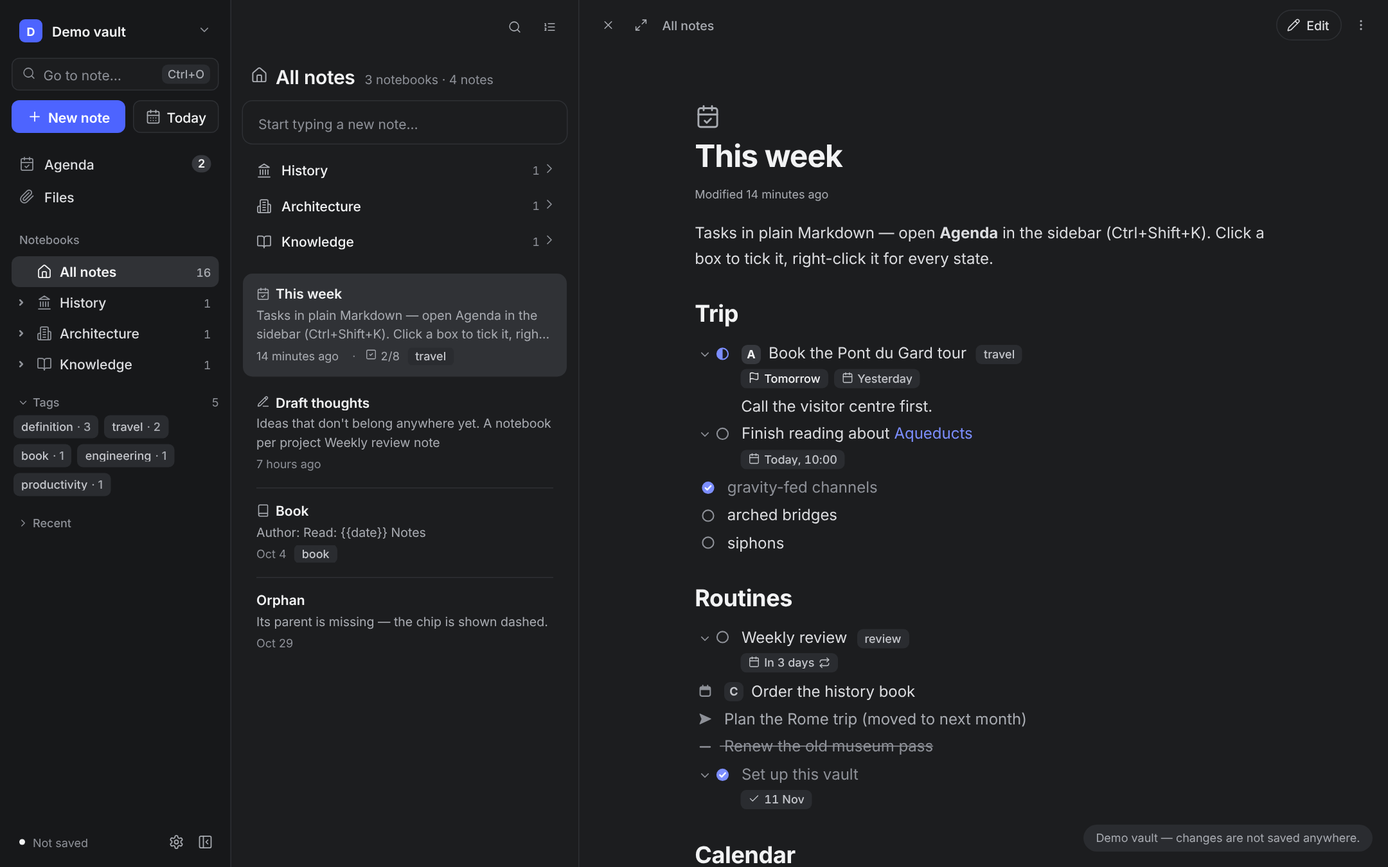
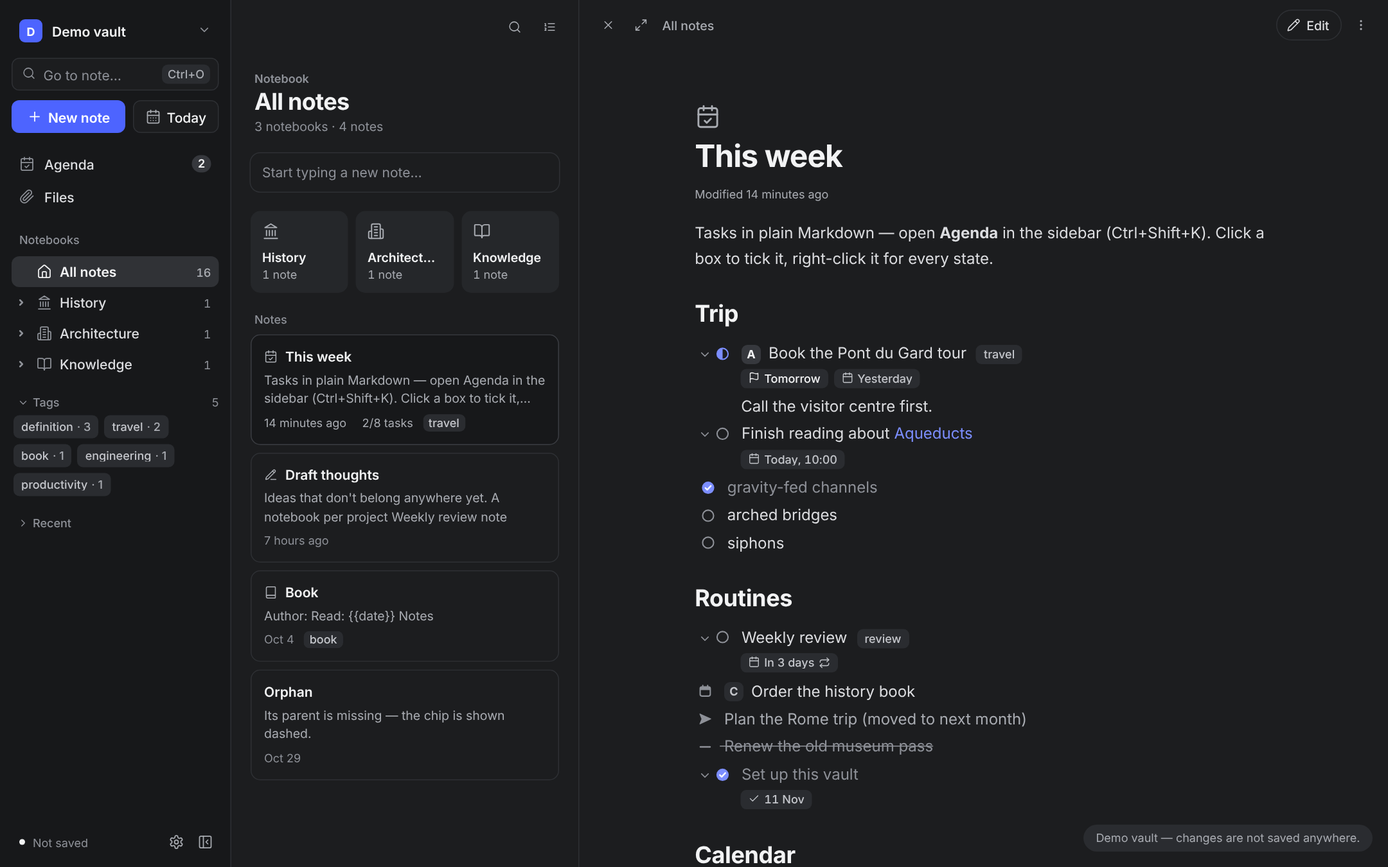
Restyle stage 5: the list
The list's head says what kind of list it is over a 24px bold title,
with the count under it. Notebooks are tiles, three to a row, with their
icon, name and how many notes they hold; a long name is cut with an
ellipsis and shown in full as its tooltip. A faint "Notes" label heads
the notes, which are white cards with a hairline; the open one sits on
the grey with a stronger line. The row's line reads "2/8 tasks" with no
dots. Up and down walk the list in order; right and left still go into
a notebook and back out. The tile test follows.

Claude-Session: https://claude.ai/code/session_01FMk1W3xjGAnUwDM3D7HQLZ

diff --git a/web/src/css/app.css b/web/src/css/app.css
@@ -209,16 +209,17 @@ button.sn-mode-btn.is-editing:hover { background: var(--cta-hover); }
   #app.is-stacked a.sn-editor-back { display: inline-flex; }
   #app.is-stacked .sn-editor-head :is(.sn-editor-path, .sn-editor-places, .sn-editor-close) { display: none; }
 }
-.sn-board.is-notes .sn-page { max-width: 760px; margin: 0 auto; padding: var(--sp-14) var(--sp-12) var(--sp-48); }
+.sn-board.is-notes .sn-page { max-width: 760px; margin: 0 auto; padding: var(--sp-24) var(--sp-20) var(--sp-48); }
 #app.notes-layout.editor-open .sn-board.is-notes .sn-page { max-width: none; }
-.sn-list-head { display: flex; align-items: baseline; gap: var(--sp-10); padding: var(--sp-4) var(--sp-8) var(--sp-12); min-width: 0; }
-/* The screen title: icon, name at 20px, a faint count. The list of notes, Files and the agenda share it (agenda.css) */
-.sn-list-head .sn-list-title { display: flex; align-items: center; gap: var(--sp-8); min-width: 0; margin: 0; font-size: var(--fs-lg); font-weight: var(--fw-semibold); line-height: var(--lh-tight); letter-spacing: -.01em; color: var(--ink); }
+/* The list's head: what kind of list, its name at 24px, how much it holds under it (restyle RS-20 to RS-22) */
+.sn-list-head { display: flex; flex-direction: column; gap: var(--sp-2); padding: 0 var(--sp-4) var(--sp-20); min-width: 0; }
+.sn-list-kind { color: var(--faint); font-size: var(--fs-sm); font-weight: var(--fw-semibold); }
+.sn-list-head .sn-list-title { display: flex; align-items: center; gap: var(--sp-8); min-width: 0; margin: 0; font-size: var(--fs-xl); font-weight: var(--fw-bold); line-height: var(--lh-tight); letter-spacing: var(--ls-head); color: var(--ink); }
 /* a long notebook name gets two lines rather than an ellipsis: with no breadcrumbs, the title is where the list says what it is */
 .sn-list-title > span { overflow: hidden; overflow-wrap: anywhere; display: -webkit-box; -webkit-line-clamp: 2; -webkit-box-orient: vertical; }
 .sn-list-badge { display: inline-flex; color: var(--muted); }
 .sn-list-badge svg { width: var(--icon-l); height: var(--icon-l); }
-.sn-list-count { flex: none; color: var(--faint); }
+.sn-list-count { flex: none; color: var(--faint); font-size: var(--fs-ui); }
 /* the notebook's own text, under its title: three lines that open it beside the list (board.js renderListDesc) */
 .sn-list-desc { margin: calc(var(--sp-6) * -1) 0 var(--sp-12); padding: var(--sp-6) var(--sp-8); border-radius: var(--r-s); color: var(--muted); line-height: var(--lh-ui); cursor: pointer; }
 .sn-list-desc-text { overflow: hidden; overflow-wrap: anywhere; display: -webkit-box; -webkit-line-clamp: 3; -webkit-box-orient: vertical; }
@@ -226,28 +227,27 @@ button.sn-mode-btn.is-editing:hover { background: var(--cta-hover); }
 .sn-list-desc.is-editing { background: var(--sel); color: var(--fg); }
 .sn-list-desc:focus { outline: none; }
 .sn-list-desc:focus-visible { box-shadow: var(--ring); }
-.sn-board.is-notes .sn-composer { margin: 0 0 var(--sp-10); }
-.sn-rows { display: flex; flex-direction: column; gap: var(--sp-6); }
+.sn-board.is-notes .sn-composer { margin: 0 0 var(--sp-20); }
+.sn-board.is-notes .sn-composer textarea { height: 40px; min-height: 40px; padding: var(--sp-10) var(--sp-12); line-height: 20px; }
+/* the notebooks' tiles in a grid, three to a row in a list of 360px; each note and the "Notes" label take a whole row (RS-25, RS-28) */
+.sn-rows { display: grid; grid-template-columns: repeat(auto-fill, minmax(96px, 1fr)); gap: var(--sp-8); }
+.sn-rows > :not(.is-folder) { grid-column: 1 / -1; }
+.sn-list-label { margin: var(--sp-12) 0 0; padding: 0 var(--sp-4); color: var(--faint); font-size: var(--fs-sm); font-weight: var(--fw-medium); }
+/* a note: a white card with a hairline (RS-29) */
 .sn-board .sn-card.sn-row {
-  flex-direction: row; align-items: flex-start; gap: var(--sp-12); padding: var(--sp-12) var(--sp-14);
-  background: transparent; box-shadow: none; cursor: default;
+  flex-direction: row; align-items: flex-start; gap: var(--sp-12); padding: var(--sp-14);
+  background: var(--win); box-shadow: inset 0 0 0 1px var(--line); cursor: default;
 }
-.sn-board .sn-card.sn-row:hover { background: var(--hover-bg); box-shadow: none; }
-.sn-board .sn-card.sn-row:focus { box-shadow: none; }
+.sn-board .sn-card.sn-row:hover { background: var(--hover-bg); box-shadow: inset 0 0 0 1px var(--line); }
+.sn-board .sn-card.sn-row:focus { box-shadow: inset 0 0 0 1px var(--line); }
 .sn-board .sn-card.sn-row:focus-visible:not(.is-editing) { box-shadow: var(--ring); }
-/* the open note: the same grey as the current row in the sidebar, not a white card that competes with the note's own sheet */
-.sn-board .sn-card.sn-row.is-editing { background: var(--sel); box-shadow: none; }
+/* the open note: the sidebar's grey and a stronger hairline (RS-33) */
+.sn-board .sn-card.sn-row.is-editing { background: var(--bg); box-shadow: inset 0 0 0 1px var(--line-strong); }
 /* --faint is for --bg and --win only: on a row's grey the date, the dots and the counts step up to --muted, as in the sidebar */
 .sn-row:is(:hover, .is-editing) :is(.sn-row-meta, .sn-row-meta > *::before, .sn-row-count) { color: var(--muted); }
 .sn-board .sn-card.sn-row.is-picked { background: color-mix(in srgb, var(--accent-soft) 70%, var(--win)); box-shadow: 0 0 0 1px var(--accent); }
-/* rules between notes; none above a notebook row, so the notebooks at the top of the list read as one block */
-.sn-rows > .sn-row:not(.is-editing):not(:hover) + .sn-row:not(.is-editing):not(:hover):not(.is-folder)::before {
-  content: ""; position: absolute; top: -3.5px; left: 14px; right: 14px; border-top: 1px solid var(--line);
-}
-.sn-row-text { flex: 1 1 auto; min-width: 0; display: flex; flex-direction: column; gap: var(--sp-4); }
-.sn-row-meta { display: flex; align-items: center; gap: var(--sp-6); min-width: 0; font-size: var(--fs-sm); line-height: 16px; color: var(--faint); white-space: nowrap; }
-.sn-row-meta > * + *::before { content: "·"; margin-right: var(--sp-6); color: var(--faint); }
-.sn-row-meta > .sn-row-meta-icon + *::before { content: none; }
+.sn-row-text { flex: 1 1 auto; min-width: 0; display: flex; flex-direction: column; gap: var(--sp-6); }
+.sn-row-meta { display: flex; align-items: center; gap: var(--sp-8); min-width: 0; font-size: var(--fs-sm); line-height: 16px; color: var(--faint); white-space: nowrap; }
 .sn-row-meta-icon { display: inline-flex; color: var(--muted); }
 .sn-row-meta-icon svg { width: var(--icon-xs); height: var(--icon-xs); }
 a.sn-row-parent { min-width: 0; overflow: hidden; text-overflow: ellipsis; color: var(--muted); font-weight: var(--fw-medium); text-decoration: none; }
@@ -255,34 +255,35 @@ a.sn-row-parent:hover { color: var(--ink); text-decoration: underline; }
 .sn-row-date { flex: none; }
 .sn-row-meta .sn-task-prog { display: inline-flex; align-items: center; gap: var(--sp-4); }
 .sn-row-meta .sn-task-prog svg { width: var(--icon-xs); height: var(--icon-xs); }
-.sn-row-head { display: flex; align-items: center; gap: var(--sp-6); min-width: 0; }
+.sn-row-head { display: flex; align-items: center; gap: var(--sp-8); min-width: 0; }
+.sn-row-head .sn-card-icon { color: var(--muted); }
 .sn-row-title {
   min-width: 0; font-size: var(--fs-md); font-weight: var(--fw-semibold); line-height: var(--lh-tight); color: var(--ink);
   overflow: hidden; overflow-wrap: anywhere; display: -webkit-box; -webkit-line-clamp: 2; -webkit-box-orient: vertical;
 }
-.sn-row-snippet { line-height: var(--lh-ui); color: var(--muted); overflow-wrap: anywhere;
+.sn-row-snippet { font-size: var(--fs-ui); line-height: var(--lh-ui); color: var(--muted); overflow-wrap: anywhere;
   overflow: hidden; display: -webkit-box; -webkit-line-clamp: 2; -webkit-box-orient: vertical;
 }
 /* the tags end the row's last line, after the date: one line, cut at the row's edge */
 .sn-row-meta { overflow: hidden; height: 18px; } /* as high with tags as without: rows of the same text are the same height */
 .sn-row-meta .sn-tags.sn-row-tags { display: inline-flex; flex-wrap: nowrap; gap: var(--sp-4); min-width: 0; margin: 0 0 0 var(--sp-2); overflow: hidden; }
-.sn-row-meta > .sn-row-tags::before { content: none; }
+.sn-row-meta .sn-row-tags .sn-chip { height: 18px; padding: 0 var(--sp-6); } /* as high as the line it ends (RS-32) */
 button.sn-row-enter {
   flex: none; align-self: center; gap: var(--sp-2); height: var(--ctl-l); padding: 0 var(--sp-6) 0 var(--sp-12);
   border: 0; border-radius: var(--r-pill); background: var(--panel); color: var(--muted); font-size: var(--fs-sm); font-variant-numeric: tabular-nums; cursor: pointer;
 }
 button.sn-row-enter svg { width: var(--icon-m); height: var(--icon-m); }
 button.sn-row-enter:hover, .sn-row:focus-visible button.sn-row-enter { background: var(--accent-soft); color: var(--accent); }
-/* a notebook: one compact line at the top of the list (cards.js renderFolderRow) */
-.sn-board .sn-card.sn-row.is-folder { align-items: center; gap: var(--sp-10); padding: var(--sp-8) var(--sp-10) var(--sp-8) var(--sp-14); cursor: pointer; }
-.sn-row.is-folder .sn-row-title { flex: 1 1 auto; font-size: var(--fs-md); font-weight: var(--fw-medium); -webkit-line-clamp: 1; }
+/* a notebook: a tile at the top of the list, its icon over its name and how much it holds (cards.js renderFolderRow, RS-26) */
+.sn-board .sn-card.sn-row.is-folder { flex-direction: column; align-items: flex-start; gap: var(--sp-10); padding: var(--sp-12); background: var(--hover-bg); box-shadow: none; cursor: pointer; }
+/* under the pointer a step darker; pressed (the --sel rule at the end of the styles) and open, one more (DS-8) */
+:where(.sn-board) .sn-card.sn-row.is-folder:hover { background: var(--panel); box-shadow: none; } /* :where: no heavier than the pressed rule */
+.sn-board .sn-card.sn-row.is-folder.is-editing { background: var(--sel); box-shadow: none; }
+/* a tile's name on one line, cut with an ellipsis rather than broken inside a word; the whole name is its tooltip */
+.sn-row.is-folder .sn-row-title { display: block; max-width: 100%; overflow: hidden; text-overflow: ellipsis; white-space: nowrap; font-size: var(--fs-ui); font-weight: var(--fw-semibold); }
 .sn-row-folder-icon { flex: none; display: inline-flex; color: var(--muted); }
-.sn-row-folder-icon svg { width: var(--icon-m); height: var(--icon-m); }
-.sn-row-count { flex: none; display: inline-flex; align-items: center; gap: var(--sp-2); color: var(--faint); font-size: var(--fs-sm); font-variant-numeric: tabular-nums; }
-.sn-row-count svg { width: var(--icon-m); height: var(--icon-m); }
-.sn-row.is-folder:hover .sn-row-count, .sn-row.is-folder:focus-visible .sn-row-count { color: var(--accent); }
-.sn-rows > .sn-row.is-folder + .sn-row:not(.is-folder) { margin-top: var(--sp-10); }
-.sn-rows > .sn-row.is-folder + .sn-row.is-folder { margin-top: calc(var(--sp-4) * -1); }
+.sn-row-folder-icon svg { width: var(--icon-l); height: var(--icon-l); }
+.sn-row-count { margin-top: calc(var(--sp-8) * -1); color: var(--muted); font-size: var(--fs-sm); font-variant-numeric: tabular-nums; }
 .sn-row-thumb { flex: none; width: 60px; height: 60px; margin-top: 19px; object-fit: cover; border-radius: var(--r-s); background: var(--panel); box-shadow: 0 0 0 1px var(--line); }
 @media (max-width: 820px) {
   .sn-board.is-notes .sn-page { padding: var(--sp-10) var(--sp-6) var(--sp-48); }

diff --git a/web/src/js/core/strings.js b/web/src/js/core/strings.js
@@ -12,7 +12,8 @@ export const STR = {
     sortManual: "Manually (order field)", sortName: "By name", sortModified: "Recently modified first", sortCreated: "Newest first",
     icon: "Icon",
     composerPlaceholder: "Start typing a new note…", composerHint: "Enter — create · Shift+Enter — new line · the first line becomes the title",
-    cardsCount: ["{n} note", "{n} notes"], cardsOf: "{shown} of {n}", filteredSuffix: "{count} · filtered",
+    cardsCount: ["{n} note", "{n} notes"], listKindNotebook: "Notebook", listKindTag: "Tag", listKindSearch: "Search", listNotes: "Notes",
+    rowTasks: ["{done}/{n} task", "{done}/{n} tasks"], cardsOf: "{shown} of {n}", filteredSuffix: "{count} · filtered",
     parentMissing: "Parent note not found",
     noCards: "No notes here yet — start typing to create one.", noMatches: "No notes match the filter.",
     repeatsSkipped: ["{n} repeated note is hidden (several parents or a cycle)", "{n} repeated notes are hidden (several parents or a cycle)"],
@@ -94,7 +95,8 @@ export const STR = {
     sortManual: "Вручную (поле order)", sortName: "По имени", sortModified: "Недавно изменённые", sortCreated: "Сначала новые",
     icon: "Иконка",
     composerPlaceholder: "Начните печатать новую заметку…", composerHint: "Enter — создать · Shift+Enter — новая строка · первая строка станет заголовком",
-    cardsCount: ["{n} заметка", "{n} заметки", "{n} заметок"], cardsOf: "{shown} из {n}", filteredSuffix: "{count} · фильтр",
+    cardsCount: ["{n} заметка", "{n} заметки", "{n} заметок"], listKindNotebook: "Блокнот", listKindTag: "Тег", listKindSearch: "Поиск", listNotes: "Заметки",
+    rowTasks: ["{done}/{n} задача", "{done}/{n} задачи", "{done}/{n} задач"], cardsOf: "{shown} из {n}", filteredSuffix: "{count} · фильтр",
     parentMissing: "Родительская заметка не найдена",
     noCards: "Здесь пока нет заметок — начните печатать, чтобы создать.", noMatches: "Нет заметок под фильтр.",
     repeatsSkipped: ["{n} повтор скрыт (несколько родителей или цикл)", "{n} повтора скрыто (несколько родителей или цикл)", "{n} повторов скрыто (несколько родителей или цикл)"],

diff --git a/web/src/js/ui/board.js b/web/src/js/ui/board.js
@@ -195,16 +195,27 @@ function renderRows(page, scroll, model, composer) {
   const listName = board.tagView ? "#" + board.tagView : board.target ? baseName(board.target) : t("allCards");
   const box = h("div", { cls: "sn-rows", role: "listbox", "aria-label": listName, "aria-multiselectable": String(!!board.selectMode) });
   page.append(box);
-  const addRows = (list) => { for (const c of list) { const el = renderRow(c.path, c.via, !!c.folder); box.append(el); rows.push(el); } };
+  // notebooks are tiles at the top; "Notes" heads the notes under them (restyle RS-25, RS-28), seen but not read out:
+  // the list box holds options only
+  let prevFolder = false;
+  const addRows = (list) => {
+    for (const c of list) {
+      if (prevFolder && !c.folder) box.append(h("div", { cls: "sn-list-label", "aria-hidden": "true", text: t("listNotes") }));
+      prevFolder = !!c.folder;
+      const el = renderRow(c.path, c.via, !!c.folder); box.append(el); rows.push(el);
+    }
+  };
   lazyAdd(page, scroll, model.shown, addRows);
   return rows;
 }
 /** The top of the list of notes: the card (or tag) it lists and how many notebooks and notes it shows. */
 function renderListHead(model) {
   const target = board.target, tv = board.tagView;
+  // what kind of list it is, its name, then how much it holds (restyle RS-20 to RS-22)
+  const kind = tv ? t("listKindTag") : model.active ? t("listKindSearch") : t("listKindNotebook");
   const head = h("div", { cls: "sn-list-head" });
-  head.append(h("h1", { cls: "sn-list-title" }, ic("sn-list-badge", tv ? "hash" : target ? cardIcon(target) || "layers" : "home", "layers"),
-    h("span", { text: tv ? "#" + tv : target ? baseName(target) : t("allCards") })));
+  head.append(h("div", { cls: "sn-list-kind", text: kind }));
+  head.append(h("h1", { cls: "sn-list-title" }, h("span", { text: tv ? "#" + tv : target ? baseName(target) : t("allCards") })));
   head.append(h("span", { cls: "sn-list-count", text: countText(model) }));
   return head;
 }

diff --git a/web/src/css/base.css b/web/src/css/base.css
@@ -9,7 +9,7 @@ body.theme-dark {
   --accent:#7c8eff; --accent-soft:#1f2547; --sel:#303236; --flash:#4a3f12; --code-bg:#25272a;
   --ink:#f2f3f4; --cta:#4d64ff; --cta-hover:#7c8eff; --hover-bg:#25272a;
   --tag:#c4c6cb; --tbl-head:#25272a; --tbl-head-line:#2e3034;
-  --panel-strong:#36383d;
+  --panel-strong:#36383d; --line-strong:#3b3d42;
   --l2:#e3a46f; --l3:#c39cf0; --l7:#e2c162; --l8:#78c6d4;
   --todo:#ff7c70;
   color-scheme: dark;
@@ -22,7 +22,7 @@ body {
      detail, 4.5:1 on --bg and --win only — never on --panel, --sel or --hover-bg). */
   --bg:#f8f8f7; --win:#ffffff; --panel:#f1f1ef; --fg:#2a2c30; --muted:#55585e; --faint:#686b72; --line:#e9e9e7;
   --accent:#4d64ff; --accent-soft:#ebeeff; --sel:#ececea; --flash:#fff1a8; --code-bg:#f4f4f2; --ink:#17181a; --cta:#4d64ff;
-  --cta-hover:#3245bb; --hover-bg:#f4f4f2; --tag:#45484e; --tbl-head:#f4f4f2; --tbl-head-line:#e9e9e7; --panel-strong:#e4e4e1;
+  --cta-hover:#3245bb; --hover-bg:#f4f4f2; --tag:#45484e; --tbl-head:#f4f4f2; --tbl-head-line:#e9e9e7; --panel-strong:#e4e4e1; --line-strong:#d9d9d6;
   --l2:#9a5524; --l3:#7a3fb0; --l7:#946500; --l8:#1d7385; --todo:#c42f27;
   /* text and marks on --accent, --cta and --todo fills; --paper is the white of a page (a PDF, the switch knob), the same in both themes */
   --on-accent: #fff; --paper: #fff;
@@ -36,6 +36,8 @@ body {
   --fw-regular: 400; --fw-medium: 500; --fw-semibold: 600; --fw-bold: 700;
   /* line heights: headings and titles, the interface, a note's text */
   --lh-tight: 1.25; --lh-ui: 1.5; --lh-text: 1.7;
+  /* tracking: headings at 24px and the list's title */
+  --ls-head: -0.02em;
   /* the spacing scale, named by its size in pixels: every padding, margin and gap uses it (besides 0, 1px hairlines
      and the few measured offsets listed in tests/architecture.test.mjs) */
   --sp-2: 2px; --sp-4: 4px; --sp-6: 6px; --sp-8: 8px; --sp-10: 10px; --sp-12: 12px; --sp-14: 14px; --sp-16: 16px;

diff --git a/web/src/js/ui/cards.js b/web/src/js/ui/cards.js
@@ -84,9 +84,10 @@ function renderFolderRow(path, via) {
   if (board.selection.has(path)) row.classList.add("is-picked");
   asOption(row, path);
   if (editor.path === path) row.classList.add("is-editing");
+  // a tile: its icon, its name, how many notes and notebooks are right inside it (restyle RS-26)
   const kids = graph.childrenOf(path).length;
-  row.append(ic("sn-row-folder-icon", cardIcon(path) || "folder", "folder"), h("span", { cls: "sn-row-title", text: baseName(path) }),
-    h("span", { cls: "sn-row-count", title: t("rowEnter", { n: kids }) }, h("span", { text: String(kids) }), ic("", "chevron-right")));
+  row.append(ic("sn-row-folder-icon", cardIcon(path) || "folder", "folder"), h("span", { cls: "sn-row-title", text: baseName(path), title: baseName(path) }),
+    h("span", { cls: "sn-row-count", title: t("rowEnter", { n: kids }), text: t("cardsCount", { n: kids }) }));
   row.addEventListener("click", (e) => {
     if (e.shiftKey || board.selectMode) { e.preventDefault(); toggleSelect(path); return; }
     enterRow(path);
@@ -130,7 +131,7 @@ export function renderRow(path, via, folder = false) {
   const mtime = n?.mtime || 0;
   meta.append(h("span", { cls: "sn-row-date", text: formatDate(mtime), title: t("modifiedAt", { date: new Date(mtime).toLocaleString(LANG) }) }));
   const prog = cardTaskProgress(path);
-  if (prog) meta.append(h("span", { cls: "sn-task-prog" + (prog.done === prog.n ? " is-complete" : ""), title: tt("progress", prog) }, ic("", "square-check"), h("span", { text: `${prog.done}/${prog.n}` })));
+  if (prog) meta.append(h("span", { cls: "sn-task-prog" + (prog.done === prog.n ? " is-complete" : ""), title: tt("progress", prog), text: t("rowTasks", prog) }));
 
   const head = h("div", { cls: "sn-row-head" });
   const iconName = cardIcon(path);

diff --git a/web/src/js/ui/keyboard.js b/web/src/js/ui/keyboard.js
@@ -17,8 +17,11 @@ import { openTasksView } from "./agenda.js";
 import { openFilesView } from "./files.js";
 
 function spatialNext(from, dir) {
-  const cards = $$(".sn-board .sn-rows .sn-card");
+  const cards = [...$$(".sn-board .sn-rows .sn-card")];
   if (!from) return cards[0];
+  // the list of notes reads in order: up and down step through the notebooks' tiles row by row, then the notes (restyle RS-27);
+  // right and left keep going into a notebook and back out
+  if ((dir === "ArrowDown" || dir === "ArrowUp") && from.closest(".sn-board.is-notes")) return cards[cards.indexOf(from) + (dir === "ArrowDown" ? 1 : -1)] || null;
   const r = from.getBoundingClientRect();
   const cx = r.left + r.width / 2, cy = r.top + r.height / 2;
   let best = null, bestScore = Infinity;

diff --git a/docs/restyle-specification.md b/docs/restyle-specification.md
@@ -163,11 +163,11 @@
 
 | № | Требование | Проверка | Статус |
 |---|---|---|---|
-| RS-20 | Над заголовком списка — подпись вида (`.sn-list-kind`, новый элемент в `renderListHead`, `board.js:203`): 12 px, 600, `--faint`. Текст: «Notebook» для блокнота и «All notes», «Tag» для вида по тегу, «Search» для результатов поиска. | Тест текста на обоих языках. | |
-| RS-21 | Заголовок (`.sn-list-title`): 24 px (`--fs-xl`, сейчас 20), 700, `--ls-head`, `--lh-tight`, `--ink`; до двух строк, как сейчас. Значка перед заголовком нет (`.sn-list-badge` из шапки списка убирается; у блокнота значок виден в дереве и на плитке). | Замер размера; значка нет. | |
-| RS-22 | Счётчик (`.sn-list-count`) — отдельной строкой под заголовком: 13 px, `--faint`. Шапка — столбец с шагом 2 px, поля 0 и 4 px. | Замер положения: счётчик ниже заголовка. | |
-| RS-23 | Поля страницы списка (`.sn-board.is-notes .sn-page`): 24 px сверху, 20 px по бокам; между шапкой, полем новой заметки, плитками и строками — 20 px. | Замер. | |
-| RS-24 | Поле новой заметки (`.sn-composer`): высота 40 px (сейчас 44), угол `--r-m`, рамка 1 px `--line`, фон `--win`, текст 14 px, подсказка `--faint`. Фокус — `--ring`. UI-26 действует. | Замер; `tests/navigation.test.mjs` проходит. | |
+| RS-20 | Над заголовком списка — подпись вида (`.sn-list-kind`, новый элемент в `renderListHead`, `board.js:203`): 12 px, 600, `--faint`. Текст: «Notebook» для блокнота и «All notes», «Tag» для вида по тегу, «Search» для результатов поиска. Сделано (`board.js`, строки `listKind*`): «Search» — когда в списке действует поиск или фильтр. | Тест текста на обоих языках. | ✅ |
+| RS-21 | Заголовок (`.sn-list-title`): 24 px (`--fs-xl`, сейчас 20), 700, `--ls-head`, `--lh-tight`, `--ink`; до двух строк, как сейчас. Значка перед заголовком нет (`.sn-list-badge` из шапки списка убирается; у блокнота значок виден в дереве и на плитке). Сделано; новая переменная `--ls-head`. | Замер размера; значка нет. | ✅ |
+| RS-22 | Счётчик (`.sn-list-count`) — отдельной строкой под заголовком: 13 px, `--faint`. Шапка — столбец с шагом 2 px, поля 0 и 4 px. Сделано. | Замер положения: счётчик ниже заголовка. | ✅ |
+| RS-23 | Поля страницы списка (`.sn-board.is-notes .sn-page`): 24 px сверху, 20 px по бокам; между шапкой, полем новой заметки, плитками и строками — 20 px. Сделано. | Замер. | ✅ |
+| RS-24 | Поле новой заметки (`.sn-composer`): высота 40 px (сейчас 44), угол `--r-m`, рамка 1 px `--line`, фон `--win`, текст 14 px, подсказка `--faint`. Фокус — `--ring`. UI-26 действует. Сделано: поле 40 px, строка 20 px. | Замер; `tests/navigation.test.mjs` проходит. | ✅ |
 
 ### 7.2. Блокноты
 
@@ -175,21 +175,21 @@
 
 | № | Требование | Проверка | Статус |
 |---|---|---|---|
-| RS-25 | Блокноты идут сеткой плиток перед заметками: `grid-template-columns: repeat(auto-fill, minmax(104px, 1fr))`, шаг 8 px. При ширине списка 320 px в ряду три плитки. | Замер: три колонки при 360 px. | |
-| RS-26 | Плитка (`.sn-row.is-folder`): столбец, поля 12 px, угол `--r-m`, фон `--hover-bg`, рамки нет. Сверху значок 18 px `--muted`, под ним через 10 px название 13 px 600 `--ink` (до двух строк), под ним число: «1 note», «5 notes» — 12 px `--muted`. Стрелки `chevron-right` нет. Под указателем и в фокусе — фон `--sel`; фокус с клавиатуры — `--ring`. | Замер; подпись числа на обоих языках с формами числа. | |
-| RS-27 | Плитка остаётся пунктом того же `listbox` (A11Y-1). Стрелки вверх и вниз проходят плитки по порядку, как сейчас строки; стрелки влево и вправо двигают по ряду. Enter и щелчок открывают блокнот. Перетаскивание и меню по правой кнопке работают. | `tests/a11y.test.mjs`, `tests/ui-list.test.mjs` проходят; новый тест на стрелки по ряду. | |
-| RS-28 | Над заметками, когда выше есть плитки, — подпись «Notes» (`.sn-list-label`): 12 px, 500, `--faint`, отступ слева 4 px, 8 px до первой строки. | Тест: подпись есть при блокнотах и нет без них. | |
+| RS-25 | Блокноты идут сеткой плиток перед заметками: `grid-template-columns: repeat(auto-fill, minmax(104px, 1fr))`, шаг 8 px. При ширине списка 320 px в ряду три плитки. Сделано: `minmax(96px, 1fr)` вместо 104 — при 104 в списке шириной 360 px с полями 20 px помещались только две плитки. | Замер: три колонки при 360 px. | ✅ |
+| RS-26 | Плитка (`.sn-row.is-folder`): столбец, поля 12 px, угол `--r-m`, фон `--hover-bg`, рамки нет. Сверху значок 18 px `--muted`, под ним через 10 px название 13 px 600 `--ink` (до двух строк), под ним число: «1 note», «5 notes» — 12 px `--muted`. Стрелки `chevron-right` нет. Под указателем и в фокусе — фон `--sel`; фокус с клавиатуры — `--ring`. Сделано с отличием: название в одну строку с многоточием и полным названием в подсказке, а не в две — в узкой плитке длинное слово («Architecture») иначе рвалось посреди, а перенос с дефисом в Chromium на Linux не работает. Под указателем — `--panel`, открытый — `--sel`: наведение на ступень светлее нажатия (DS-8). | Замер; подпись числа на обоих языках с формами числа. | ✅ |
+| RS-27 | Плитка остаётся пунктом того же `listbox` (A11Y-1). Стрелки вверх и вниз проходят плитки по порядку, как сейчас строки; стрелки влево и вправо двигают по ряду. Enter и щелчок открывают блокнот. Перетаскивание и меню по правой кнопке работают. Сделано с отличием: ↑ и ↓ в списке идут по порядку — плитки по рядам, затем заметки, так достижима каждая плитка. → и ← по-прежнему входят в блокнот и выходят из него: на этом держится существующее поведение и его тест (RS-INV-1), поэтому движения по ряду стрелками нет. | `tests/a11y.test.mjs`, `tests/ui-list.test.mjs` проходят; новый тест на стрелки по ряду. | ✅ |
+| RS-28 | Над заметками, когда выше есть плитки, — подпись «Notes» (`.sn-list-label`): 12 px, 500, `--faint`, отступ слева 4 px, 8 px до первой строки. Сделано: подпись — `aria-hidden`, потому что в `listbox` могут быть только пункты. | Тест: подпись есть при блокнотах и нет без них. | ✅ |
 
 ### 7.3. Строка заметки
 
 | № | Требование | Проверка | Статус |
 |---|---|---|---|
-| RS-29 | Строка (`.sn-board .sn-card.sn-row`, `app.css:229`): карточка с рамкой 1 px `--line`, угол `--r-m`, поля 14 px, фон `--win`; между карточками 8 px (`.sn-rows`, сейчас 6). Разделительных линий между строками нет: правило `app.css:242–244` удаляется. | Замер рамки и шага. | |
-| RS-30 | Название (`.sn-row-title`): 14 px, 600, `--ink`; перед ним значок заметки 16 px `--muted`, если он задан; между ними 8 px. Фрагмент (`.sn-row-snippet`): 13 px, `--muted`, две строки. Нижняя строка (`.sn-row-meta`): 12 px, `--faint`, шаг 8 px, без точек-разделителей (`app.css:247` удаляется). Между тремя частями 6 px. Порядок UI-22 сохраняется. | `tests/typography.test.mjs`, тест порядка строки проходит. | |
-| RS-31 | Прогресс задач в строке — текстом «2/8 tasks» (по-русски с формами числа), без значка. Класс `sn-task-prog` остаётся. | Тест текста. | |
-| RS-32 | Тег в строке: чип 18 px высотой (`.sn-chip.is-s` в `.sn-row-tags`), поля 0 и 7 px, угол `--r-xs`, фон `--panel`, текст `--tag` 12 px 500. | Замер. | |
-| RS-33 | Открытая заметка (`.is-editing`): фон `--bg`, рамка `--line-strong`. Под указателем: фон `--hover-bg`, рамка прежняя. Отмеченная в режиме выбора (`.is-picked`): как сейчас, акцентная рамка и `--accent-soft`. Высота и поля строки при выборе не меняются (UI-23). | Тест «a row picked has the padding and the height it had» проходит. | |
-| RS-34 | Миниатюра (`.sn-row-thumb`): угол `--r-s`, рамка 1 px `--line` вместо тени; положение прежнее. | Снимок заметки с картинкой. | |
+| RS-29 | Строка (`.sn-board .sn-card.sn-row`, `app.css:229`): карточка с рамкой 1 px `--line`, угол `--r-m`, поля 14 px, фон `--win`; между карточками 8 px (`.sn-rows`, сейчас 6). Разделительных линий между строками нет: правило `app.css:242–244` удаляется. Сделано: рамка нарисована внутренней тенью (`inset 0 0 0 1px`), чтобы размеры строки не менялись и кольцо фокуса ложилось как раньше. | Замер рамки и шага. | ✅ |
+| RS-30 | Название (`.sn-row-title`): 14 px, 600, `--ink`; перед ним значок заметки 16 px `--muted`, если он задан; между ними 8 px. Фрагмент (`.sn-row-snippet`): 13 px, `--muted`, две строки. Нижняя строка (`.sn-row-meta`): 12 px, `--faint`, шаг 8 px, без точек-разделителей (`app.css:247` удаляется). Между тремя частями 6 px. Порядок UI-22 сохраняется. Сделано. | `tests/typography.test.mjs`, тест порядка строки проходит. | ✅ |
+| RS-31 | Прогресс задач в строке — текстом «2/8 tasks» (по-русски с формами числа), без значка. Класс `sn-task-prog` остаётся. Сделано: строка `rowTasks`. | Тест текста. | ✅ |
+| RS-32 | Тег в строке: чип 18 px высотой (`.sn-chip.is-s` в `.sn-row-tags`), поля 0 и 7 px, угол `--r-xs`, фон `--panel`, текст `--tag` 12 px 500. Сделано: поля 6 px по шкале вместо 7. | Замер. | ✅ |
+| RS-33 | Открытая заметка (`.is-editing`): фон `--bg`, рамка `--line-strong`. Под указателем: фон `--hover-bg`, рамка прежняя. Отмеченная в режиме выбора (`.is-picked`): как сейчас, акцентная рамка и `--accent-soft`. Высота и поля строки при выборе не меняются (UI-23). Сделано; новая переменная `--line-strong`. | Тест «a row picked has the padding and the height it had» проходит. | ✅ |
+| RS-34 | Миниатюра (`.sn-row-thumb`): угол `--r-s`, рамка 1 px `--line` вместо тени; положение прежнее. Так уже было: угол `--r-s` и рамка в 1 px тенью. | Снимок заметки с картинкой. | ✅ |
 
 ## 8. Заметка в чтении
 
